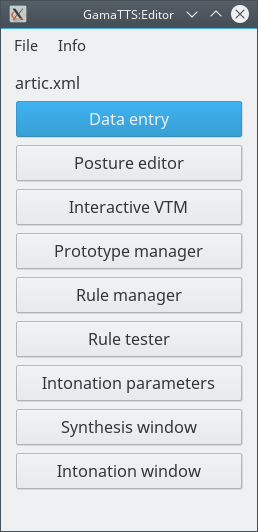
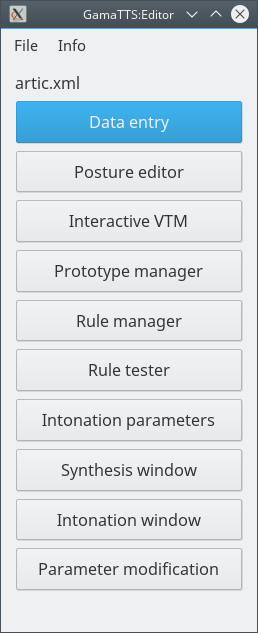
Add parameter modification.

diff --git a/gama_tts_editor.html b/gama_tts_editor.html
@@ -49,6 +49,7 @@
 <li><a href="#inton_param">Intonation parameters</a></li>
 <li><a href="#synth_window">Synthesis window</a></li>
 <li><a href="#inton_window">Intonation window</a></li>
+<li><a href="#param_modif">Parameter modification</a></li>
 </ol>
 
 <hr>
@@ -753,11 +754,63 @@ The first segment uses always linear interpolation, even with smooth intonation 
 <li>Synthesize to file:<br>Click on "Synthesize to file" and the sound will be sent to a WAVE file.</li>
 </ul>
 
+<hr>
+<!-- ======================================================================= -->
+<h2 id="param_modif">Parameter modification</h2>
+
+<p><img class="screenshot" src="img/gama_tts_editor-parameter_modification.png"
+	alt="Screenshot of the parameter modification window"></p>
+
+<p>In this window the vocal tract parameters can be modified in real time.
+</p>
+
+<p>The parameter that will be modified can be selected in the combo box at the
+top.
+</p>
+
+<p>The modification can be set to "Add" or "Multiply".
+When set to "Add", the modification value will be added to the parameter value.
+When set to "Multiply", the parameter value will be multiplied by the
+modification value.
+</p>
+
+<p>If the amplitude field is set to a value V, and the modification is set to
+"Add", the modification will have a value between -V and V.
+When the modification is set to "Multiply", the amplitude is always 1.0 and
+the modification will have a value between 0.0 and 2.0 (the center in the
+input area have a value of 1.0).
+</p>
+
+<p>Automatic gain normalization is not executed.
+For this reason, an attenuation can be set in the output gain combo box
+(to avoid saturation).
+</p>
+
+<p>In the input area, only the horizontal (x) position of the mouse cursor is
+captured.
+</p>
+
+<p>In the parameter curve graph, the original parameter curve is shown in black,
+and the modified curve is shown in blue.
+</p>
+
+<p>Operations:</p>
+<ul>
+<li>Modify a parameter:<br>Click on the input area, near the central line, and
+  the synthesis will start. Move the mouse to the left or to the right, and
+  hear the sound of the modified speech in real time.
+  The synthesis will stop at the end of the parameter data.</li>
+<li>Reset a parameter:<br>Click on the button "Reset parameter".</li>
+<li>Synthesize to audio:<br>Click on "Synthesize" and the sound will be sent to JACK audio, using the modified parameters.</li>
+<li>Synthesize to file:<br>Click on "Synthesize to file" and the sound will be sent to a WAVE file, using the modified parameters.
+  If the option "Save VTM parameters to file" is set, the modified parameters will be saved to a file.</li>
+</ul>
+
 </div>
 
 	<div id="footer">This documentation is licensed under a <a rel="license" href="http://creativecommons.org/licenses/by-sa/4.0/">Creative Commons Attribution-ShareAlike 4.0 International License</a>.
 <br>
-Last update: 2017-08-19
+Last update: 2017-08-25
 </div>
 
 </div>

diff --git a/how_to_use.html b/how_to_use.html
@@ -31,7 +31,7 @@
 
 	<div id="footer">This documentation is licensed under a <a rel="license" href="http://creativecommons.org/licenses/by-sa/4.0/">Creative Commons Attribution-ShareAlike 4.0 International License</a>.
 <br>
-Last update: 2017-08-21
+Last update: 2017-08-15
 </div>
 
 </div>

diff --git a/introduction.html b/introduction.html
@@ -30,7 +30,7 @@
 
 	<div id="footer">This documentation is licensed under a <a rel="license" href="http://creativecommons.org/licenses/by-sa/4.0/">Creative Commons Attribution-ShareAlike 4.0 International License</a>.
 <br>
-Last update: 2017-08-21
+Last update: 2017-08-15
 </div>
 
 </div>
